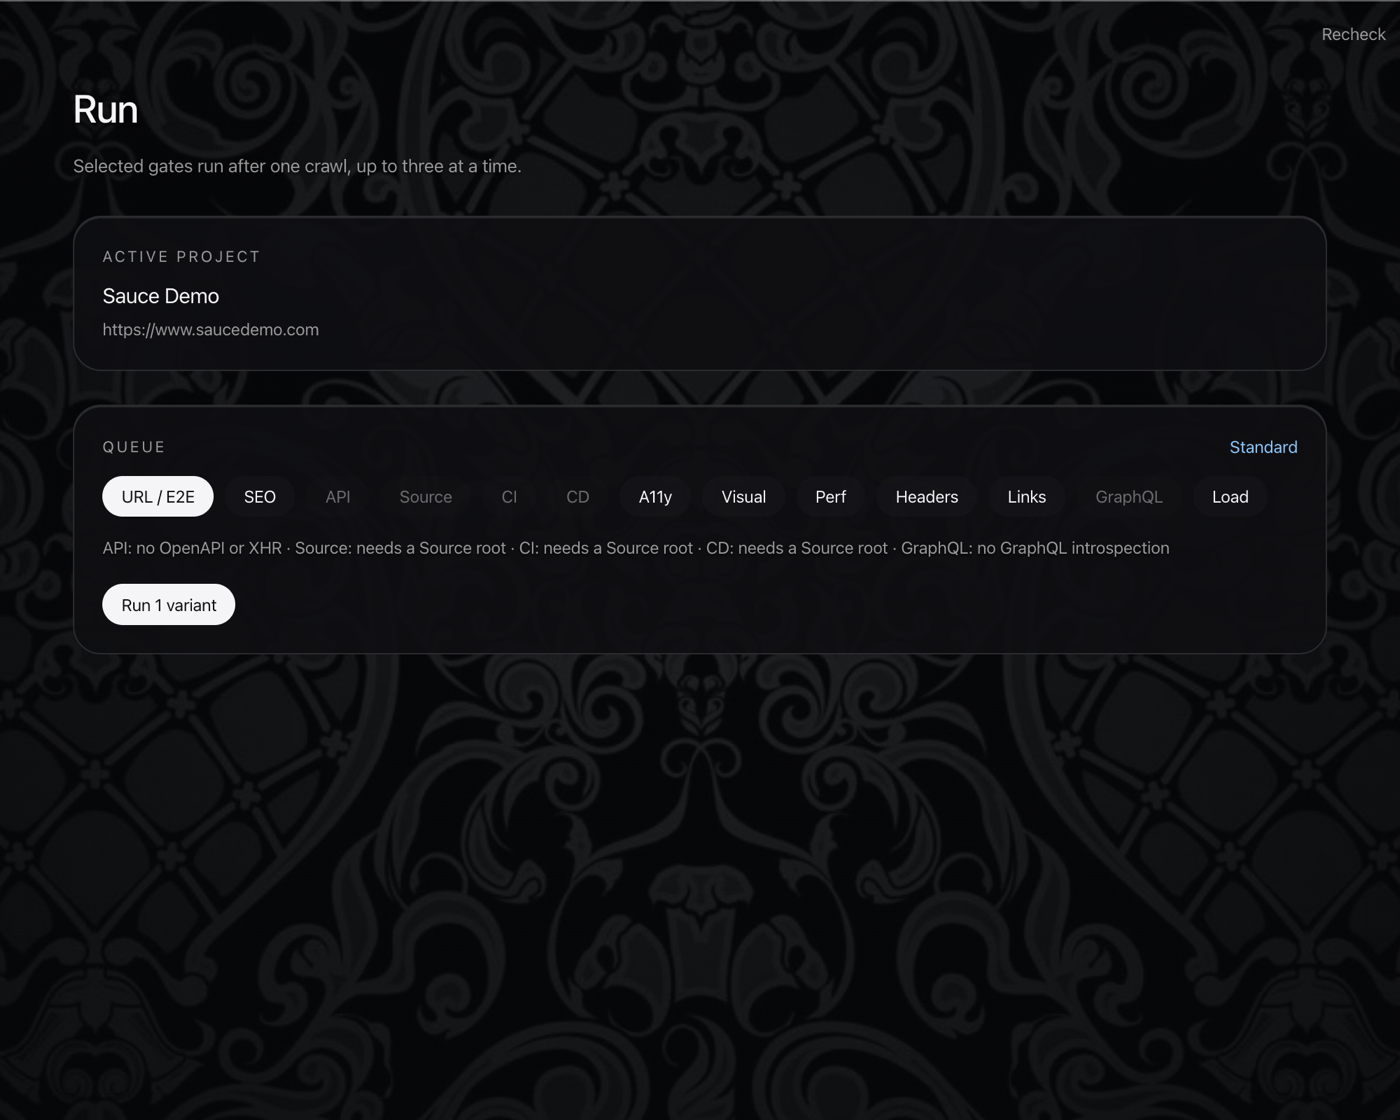
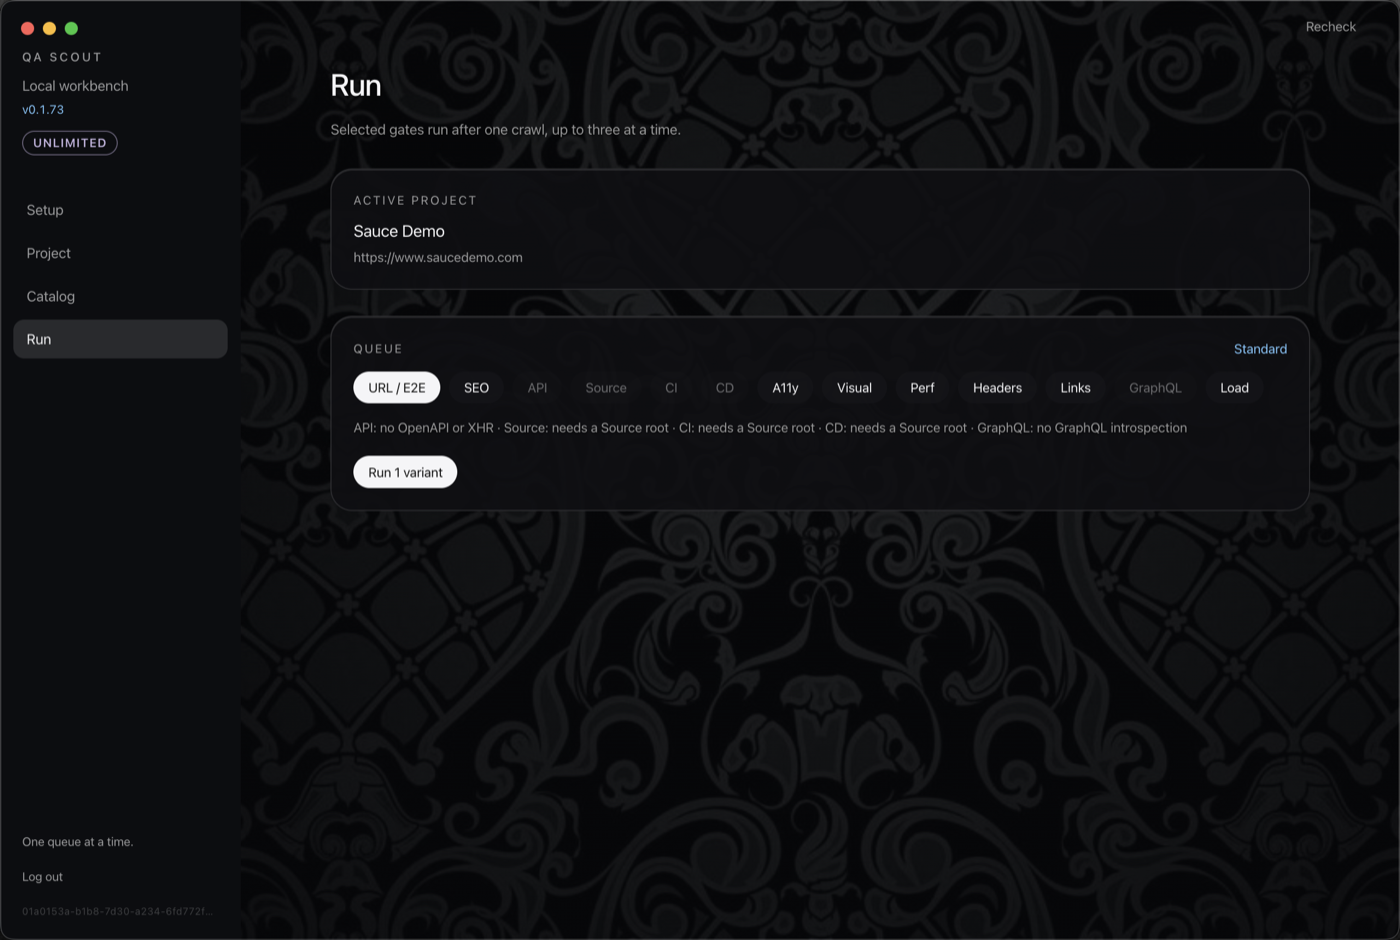
Show full app windows on the download page, Motrix-style.

diff --git a/README.md b/README.md
@@ -1,94 +1,77 @@
-# QA Scout
-
 <p align="center">
   <img src="icon.png" width="160" height="160" alt="QA Scout">
 </p>
 
-**QA Scout catches bugs before your users do.**
+<h1 align="center">QA Scout</h1>
 
-One QA system. One verdict. One report.
+<p align="center"><strong>One QA system. One verdict. One report.</strong></p>
 
-Crawl your website, run automated QA gates, collect evidence, and generate a client-ready report.
+<p align="center">
+  <a href="https://github.com/asxyw/qa-scout-app/releases"><img src="https://img.shields.io/github/v/release/asxyw/qa-scout-app" alt="GitHub release"></a>
+  <img src="https://img.shields.io/badge/macOS-Apple%20Silicon-lightgrey" alt="macOS Apple Silicon">
+  <img src="https://img.shields.io/badge/status-early%20access-blue" alt="early access">
+</p>
 
-```mermaid
-flowchart TB
-  SRC[Source] --> QS[QA Scout]
-  API[API] --> QS
-  UI[UI] --> QS
-  QS --> A[Accessibility / Security]
-  QS --> B[SEO / Links]
-  QS --> C[Visual regression]
-  A --> V[QA verdict — pass / fail]
-  B --> V
-  C --> V
-  V --> CI[CI]
-  V --> CD[CD]
-```
+## Overview
 
-Source, API, and UI go in. You get one verdict and one report: a short PDF for the client plus a zip for engineers.
+QA Scout is a Mac app that crawls a website, runs pages, SEO, accessibility, visual, headers, and links in one pass, and returns a single verdict: a short client PDF plus a developer zip.
+
+After you sign in, the same account data (runs left, time remaining, Scout ID) is on this Mac, on the website, and in the Telegram bot. You get those from the app and the welcome email — this page is the download.
+
+## Screenshots
+
+Sample project: [Sauce Demo](https://www.saucedemo.com) (Sauce Labs’ public test store, not a real shop).
+
+### Project
+
+<img src="docs/sample/screenshots/app-project.png" width="720" alt="QA Scout Project — Sauce Demo">
+
+### Run
+
+<img src="docs/sample/screenshots/app-run.png" width="720" alt="QA Scout Run — Standard gates on Sauce Demo">
+
+### Catalog
+
+<img src="docs/sample/screenshots/app-catalog.png" width="720" alt="QA Scout Catalog — Sauce Demo run list and details">
+
+### Setup
+
+<img src="docs/sample/screenshots/app-setup.png" width="720" alt="QA Scout Setup — Chromium ready">
+
+### Report
+
+Client PDF ([download](docs/sample/report.pdf)):
+
+<img src="docs/sample/screenshots/report-cover.png" width="720" alt="QA Scout report cover for saucedemo.com">
+
+### Visual
+
+<img src="docs/sample/screenshots/visual-desktop.png" width="720" alt="Sauce Demo inventory, desktop visual baseline">
+
+<img src="docs/sample/screenshots/a11y-fail.png" width="720" alt="Accessibility fail on Sauce Demo inventory">
 
 ## Download
 
 **macOS, Apple Silicon:** [Releases](https://github.com/asxyw/qa-scout-app/releases)
 
-Current build: **0.1.73**.
+Intel Macs are not in this release.
 
-## Install on Mac
+## Install
 
-1. Download `QA-Scout-0.1.73-mac-arm64.zip` and unzip it.
+1. Download the latest `QA-Scout-*-mac-arm64.zip` and unzip it.
 2. Move `QA Scout.app` to Applications, or run it from Downloads.
 3. First launch: **right-click → Open**. macOS will warn because this build is not Apple-notarized yet. Confirm Open.
 4. Sign in, or start a **3-run trial** on this Mac.
 
-Intel Macs are not in this release.
-
-## Use it
-
-1. Save a project with the site URL.
-2. Run **Standard**. That is pages, SEO, accessibility, visual, headers, and links. API is included when the crawl already saw same-origin XHR, or when you attach an OpenAPI file.
-3. Optional: paste a **public GitHub URL** and Clone. That turns on Source, CI, and CD (workflows, artifacts, no plaintext secrets). A github.com Base URL stays the website — it is not the repo.
-4. Export: short client PDF (plain language) and a developer zip (`developers.md`, `findings.json`, evidence).
-
-No signal on a gate means skip, not a fake pass.
-
-## Sample
-
-This scan used [Sauce Demo](https://www.saucedemo.com), Sauce Labs’ public test store. It exists for automated QA. It is not a real shop.
-
-Setup and Run (project: Sauce Demo):
-
-<img src="docs/sample/screenshots/app-setup.png" width="720" alt="QA Scout Setup — Chromium ready">
-
-<img src="docs/sample/screenshots/app-run.png" width="720" alt="QA Scout Run — Sauce Demo, Standard gates">
-
-Client report ([PDF](docs/sample/report.pdf)):
-
-<img src="docs/sample/screenshots/report-cover.png" width="720" alt="QA Scout report cover for saucedemo.com">
-
-Visual baseline (desktop) and an accessibility fail on the inventory page:
-
-<img src="docs/sample/screenshots/visual-desktop.png" width="720" alt="Swag Labs products page, desktop visual baseline">
-
-<img src="docs/sample/screenshots/a11y-fail.png" width="720" alt="Accessibility fail screenshot on Sauce Demo inventory">
+First screen is Setup — Chromium on, then you can run.
 
 ## Early access
 
-QA Scout is currently in early access. [Request free beta access](https://scout-api.win) (30 days, 20 runs/mo) to try it on your project. Reply goes to the email you give.
+QA Scout is in early access. [Request free beta access](https://scout-api.win) (30 days, 20 runs/mo). Reply goes to the email you give.
 
-[Privacy / Datenschutz](https://scout-api.win/privacy/) · Telegram [@asxyw](https://t.me/asxyw)
+Crawl data, screenshots, and PDFs stay on your Mac. Trial: **3 runs** per computer. A new account does not give another trial on the same Mac.
 
-## License
-
-Trial: **3 runs** per computer. A new account does not give another trial on the same Mac.
-
-Crawl data, screenshots, and PDFs stay on your Mac.
-
-## Requirements
-
-- macOS on Apple Silicon
-- Network access to the site you scan
-
-This repository is the download page. It does not contain product source.
+[Privacy / Datenschutz](https://scout-api.win/privacy/)
 
 ## Author
 
